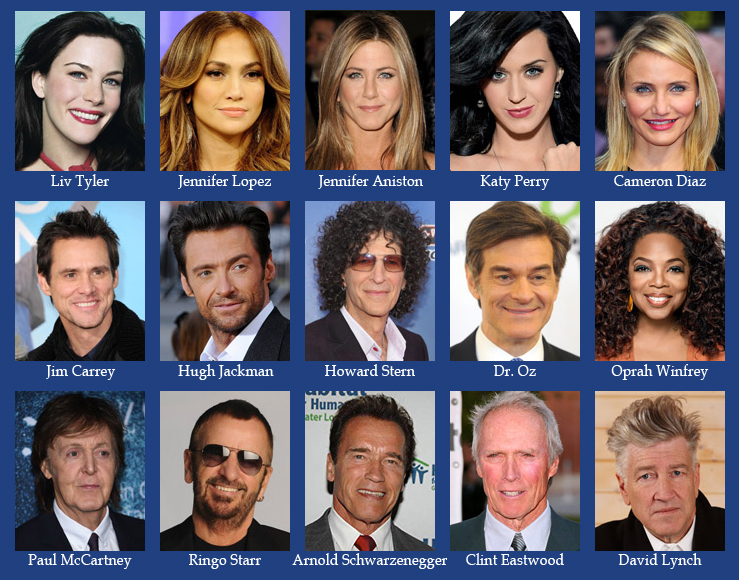
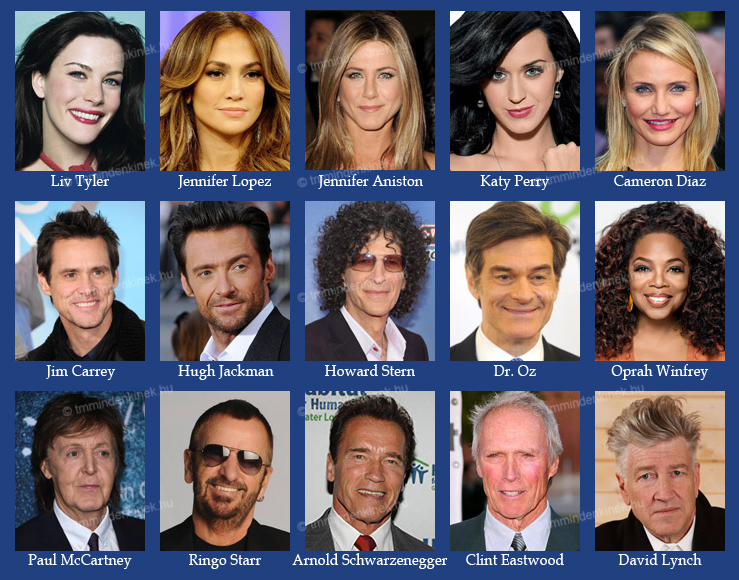
kereszthivatkozások (SEO miatt); 1x1 pixeles hider a képekre (ehhez lett írva a wrap_into_hider PHP segédfüggvény); hírességes és MRI-s kép lecserélve vízjelesre; Margarétás kép lecserélve a szebb nyakúra; CSS

diff --git a/css/style.less b/css/style.less
@@ -443,6 +443,21 @@ ul {
     }
 }
 
+.hider {
+    background-image: url(../images/hider.png);
+    background-repeat: repeat;
+
+    position: absolute;
+    top: 0;
+    left: 0;
+    width: 100%;
+    height: 100%;
+
+    &-container {
+        position: relative;
+    }
+}
+
 figure {
     text-align: center;
 
@@ -492,11 +507,21 @@ figure {
     }
 
     &.famous-people {
+        cursor: default;
+
         margin-bottom: 20px !important;
 
         & img {
+            border: none;
+
             max-height: none;
             width: 80%;
+
+            &:hover {
+                border: none;
+                box-shadow: none;
+                cursor: default;
+            }
         }
     }
 

diff --git a/css/style.css b/css/style.css
@@ -331,6 +331,18 @@ ul.tm-contact li:not(.menu) {
   background-size: 25px;
   padding-left: 35px;
 }
+.hider {
+  background-image: url(../images/hider.png);
+  background-repeat: repeat;
+  position: absolute;
+  top: 0;
+  left: 0;
+  width: 100%;
+  height: 100%;
+}
+.hider-container {
+  position: relative;
+}
 figure {
   text-align: center;
 }
@@ -364,11 +376,18 @@ figure figcaption {
   width: 100%;
 }
 figure.famous-people {
+  cursor: default;
   margin-bottom: 20px !important;
 }
 figure.famous-people img {
+  border: none;
   max-height: none;
   width: 80%;
+}
+figure.famous-people img:hover {
+  border: none;
+  box-shadow: none;
+  cursor: default;
 }
 figure a {
   display: block;

diff --git a/helpers.php b/helpers.php
@@ -75,59 +75,82 @@
         echo $wrap_in_h2 ? '<h2>'.$title.'</h2>' : $title;
     }
 
-    // $orientation : "portrait" | "landscape"
-    // $float       : "none" | "left" | "right"
-    function insert_raw_image($src, $orientation, $float, $alt, $title, $classes = "", $styles = "") {
-        $class = $classes == '' ? '' : ' '.$classes;
-        $style = $styles == '' ? '' : ' style="'.$styles.'"';
+    function wrap_into_hider($content) {
+        $result = '';
 
-        echo '<figure class="'.$orientation.' '.$float.' clearfix'.$class.'"'.$style.'>';
-            echo '<img src="'.$src.'" class="tm-thumbnail '.$orientation.'" alt="'.$alt.'" title="'.$title.'">';
-        echo '</figure>';
+        $result .= '<div class="hider-container">';
+            $result .= '<div class="hider"></div>';
+            $result .= $content;
+        $result .= '</div>';
+
+        return $result;
     }
 
     // $orientation : "portrait" | "landscape"
     // $float       : "none" | "left" | "right"
-    function insert_figure($src, $orientation, $float, $alt, $title, $figcaption, $classes = "", $styles = "") {
+    function insert_raw_image($src, $orientation, $float, $alt, $title, $classes = "", $styles = "", $useHider = false) {
         $class = $classes == '' ? '' : ' '.$classes;
         $style = $styles == '' ? '' : ' style="'.$styles.'"';
+        $result = '';
 
-        echo '<figure class="'.$orientation.' '.$float.' clearfix'.$class.'"'.$style.'>';
-            echo '<a href="'.$src.'" target="_blank">';
-                echo '<img src="'.$src.'" class="tm-thumbnail '.$orientation.'" alt="'.$alt.'" title="'.$title.'">';
-            echo '</a>';
-            echo '<figcaption>'.$figcaption.'</figcaption>';
-        echo '</figure>';
+        $result .= '<figure class="'.$orientation.' '.$float.' clearfix'.$class.'"'.$style.'>';
+            $image = '<img src="'.$src.'" class="tm-thumbnail '.$orientation.'" alt="'.$alt.'" title="'.$title.'">';
+            $result .= $useHider ? wrap_into_hider($image) : $image;
+        $result .= '</figure>';
+
+        echo $result;
+    }
+
+    // $orientation : "portrait" | "landscape"
+    // $float       : "none" | "left" | "right"
+    function insert_figure($src, $orientation, $float, $alt, $title, $figcaption, $classes = "", $styles = "", $useHider = false) {
+        $class = $classes == '' ? '' : ' '.$classes;
+        $style = $styles == '' ? '' : ' style="'.$styles.'"';
+        $result = '';
+
+        $result .= '<figure class="'.$orientation.' '.$float.' clearfix'.$class.'"'.$style.'>';
+            $result .= '<a href="'.$src.'" target="_blank">';
+                $image = '<img src="'.$src.'" class="tm-thumbnail '.$orientation.'" alt="'.$alt.'" title="'.$title.'">';
+                $result .= $useHider ? wrap_into_hider($image) : $image;
+            $result .= '</a>';
+            $result .= '<figcaption>'.$figcaption.'</figcaption>';
+        $result .= '</figure>';
+
+        echo $result;
     }
 
     function insert_video($url, $title = "", $closable = false, $tooltip = "Kattintson a gombra a videó betöltéséhez") {
-        if ($closable) {
-            echo '<div class="video-group">';
-                echo '<button class="video-button button" onclick="getVideo(\''.$url.'\', this)" title="'.$tooltip.'">';
-                    echo '<i class="material-icons">ondemand_video</i> '.$title;
-                echo '</button>';
+        $result = '';
 
-                echo '<div class="video-container">';
-                    echo '<div class="video-header">';
-                        echo '<div class="video-title">'.$title.'</div>';
-                        echo '<div class="video-close" onclick="closeVideo(this)">&times;</div>';
-                    echo '</div>';
-                    echo '<div class="video-content">';
-                        echo '<iframe class="video" width="560" height="315" src="" frameborder="0" allow="accelerometer; encrypted-media; gyroscope; picture-in-picture" allowfullscreen></iframe>';
-                    echo '</div>';
-                echo '</div>';
-            echo '</div>';
+        if ($closable) {
+            $result .= '<div class="video-group">';
+                $result .= '<button class="video-button button" onclick="getVideo(\''.$url.'\', this)" title="'.$tooltip.'">';
+                    $result .= '<i class="material-icons">ondemand_video</i> '.$title;
+                $result .= '</button>';
+
+                $result .= '<div class="video-container">';
+                    $result .= '<div class="video-header">';
+                        $result .= '<div class="video-title">'.$title.'</div>';
+                        $result .= '<div class="video-close" onclick="closeVideo(this)">&times;</div>';
+                    $result .= '</div>';
+                    $result .= '<div class="video-content">';
+                        $result .= '<iframe class="video" width="560" height="315" src="" frameborder="0" allow="accelerometer; encrypted-media; gyroscope; picture-in-picture" allowfullscreen></iframe>';
+                    $result .= '</div>';
+                $result .= '</div>';
+            $result .= '</div>';
         } else {
-            echo '<div class="video-container">';
-                echo '<div class="video-header">';
-                    echo '<div class="video-title">'.$title.'</div>';
-                echo '</div>';
-                echo '<div class="video-content visible">';
-                     echo '<iframe class="video" width="560" height="315" src="'.$url.'?rel=0"'.
+            $result .= '<div class="video-container">';
+                $result .= '<div class="video-header">';
+                    $result .= '<div class="video-title">'.$title.'</div>';
+                $result .= '</div>';
+                $result .= '<div class="video-content visible">';
+                     $result .= '<iframe class="video" width="560" height="315" src="'.$url.'?rel=0"'.
                           'frameborder="0" allow="accelerometer; encrypted-media; gyroscope; picture-in-picture" allowfullscreen></iframe>';
-                echo '</div>';
-            echo '</div>';
+                $result .= '</div>';
+            $result .= '</div>';
         }
+
+        echo $result;
     }
 
     function get_email_from_template($template_file_path, $data) {

diff --git a/content/hatasok.php b/content/hatasok.php
@@ -9,7 +9,9 @@
         "MRI felvétel (új lapon nyílik meg)", // title
         "Egy normál és egy feszült idegállapotú ember agyának MRI felvétele", // figcaption
         "", // classes
-        "max-width: 300px"); // styles
+        "max-width: 300px", // styles
+        false // use hider?
+    );
 ?>
 
 <p class="clearfix">
@@ -17,8 +19,10 @@
     Ha az ember homloklebenyében úgynevezett funkcionális lyukak alakulnak ki (lásd MRI felvétel),
     akkor az megakadályozza abban, hogy erkölcsileg, morálisan megfelelő döntést tudjon hozni.
     A funkcionális lyukak kialakulásának oka a nem megfelelő idejű és minőségű alvás, illetve a stressz.
-    A nem megfelelő minőségű alvás oka a stressz. Így ha eleget alszunk, és stresszmentes életet élünk, az agyunk megfelelően fog működni.
-    A TM<sup>&reg;</sup> egy olyan egyszerű, természetes, erőfeszítésmentes stresszoldó mentális technika,
+    A nem megfelelő minőségű alvás oka szintén a stressz.
+    Így ha eleget alszunk, és stresszmentes életet élünk, az agyunk megfelelően fog működni.
+    A <a href="index.php?p=mi-a-tm" class="in-text" title="Ugrás a Mi a TM? aloldalra">TM</a><sup class="orange">&reg;</sup>
+    egy olyan egyszerű, természetes, erőfeszítésmentes stresszoldó mentális technika,
     mely az agykoherenciát növeli, ezáltal az idegrendszerünket normalizálja (melynek központja az agy),
     így segíti elő a megfelelő döntések meghozatalát.
 </p>
@@ -81,7 +85,8 @@
     <li>
         <b>a szakmai életben:</b>
         <p>
-            erősebb önmegvalósítás elérése; helyes döntéshozatal;
+            erősebb <a href="index.php?p=onmegvalositas" class="in-text" title="Ugrás az Önmegvalósítás aloldalra">önmegvalósítás</a> elérése;
+            helyes döntéshozatal;
             nagyobb elégedettség a karrierrel; jobb munkateljesítmény;
             gyorsabb problémamegoldó képesség; a munka növekvő élvezete;
             hatékony vezetői képesség kifejlődése; kevesebb cselekvés, több eredmény;

diff --git a/content/ajanlasok.php b/content/ajanlasok.php
@@ -7,7 +7,8 @@
     a sérülések és az intenzív élmények okozta terhekkel. Egész életén át folytatott kutatásai nyomán
     arra a következtetésre jutott, hogy a stressz minden betegség kifejlődésében szerepet játszik.
     Ha valaki nem képes megbirkózni a stresszekkel, az alkalmazkodási betegségekhez vezethet,
-    mint amilyenek a fekélyek, a magas vérnyomás és számos egyéb probléma, amelyet a stressz okoz vagy súlyosbít.
+    mint amilyenek a fekélyek, a magas vérnyomás és számos egyéb probléma, amelyet a stressz okoz vagy súlyosbít
+    (bővebben az <a href="index.php?p=hatasok" class="in-text" title="Ugrás az Igazolt hatások aloldalra">Igazolt hatások</a> menüpont alatt).
 </p>
 
 <p>
@@ -75,21 +76,22 @@
 <p class="clearfix">
 1955-ben Dr. Veér András, a Népjóléti Minisztérium Mentálhygiéne miniszteri biztosa,
 aki az <b>Országos Pszichiátriai és Neurológiai Intézet Főigazgató Főorvosa</b> is,
-írt egy ajánló levelet, melyben a Transzcendentális Meditációt ajánlja.
+írt egy ajánló levelet, melyben a <a href="index.php?p=mi-a-tm" class="in-text" title="Ugrás a Mi a TM? aloldalra">Transzcendentális Meditációt</a> ajánlja.
 </p>
 
 <h3>Híres TM-esek</h3>
 
 <?php
-    insert_figure(
+    insert_raw_image(
         "images/hiressegek.jpg", // src
         "portrait", // orientation
         "none", // float
         "Híres TM-esek", // alt
         "Híres TM-esek (új lapon nyílik meg)", // title
-        "", // figcaption
         "famous-people", // classes
-        "max-width: none"); // inline styles
+        "max-width: none", // inline styles
+        true // use hider?
+    );
 ?>
 
 <?php

diff --git a/content/mi-a-tm.php b/content/mi-a-tm.php
@@ -15,13 +15,14 @@
     ami kiterjedt tudatossághoz vezet.
     Az idegrendszer és a test egyedülállóan mély pihenése feloldja a mélyen gyökerező stresszeket,
     így az idegrendszer és az egész fiziológia működése is normalizálódik.
+    (Lásd <a href="index.php?p=ajanlasok" class="in-text" title="Ugrás az Ajánlások aloldalra">Dr. Selye János ajánlása</a>.)
 </p>
 
 <p>
     A változásokat, amelyek az elme tudatosságának kiterjedése és a test mély pihenése által jönnek létre
     az ember életében és környezetében, beható tudományos vizsgálatoknak vetették alá az elmúlt több mint 30 évben.
     Napjainkig kb. 600 ilyen tudományos kutatás készült a világ 30 országának kb. 250 tudományos intézetében
-    (bővebben lásd az <a href="index.php?p=hatasok" class="in-text" title="Ugrás az Igazolt hatások aloldalra">Igazolt hatások</a> menüpont alatt).
+    (bővebben az <a href="index.php?p=hatasok" class="in-text" title="Ugrás az Igazolt hatások aloldalra">Igazolt hatások</a> menüpont alatt).
 </p>
 
 <p>
@@ -29,6 +30,8 @@
     A TM<sup>&reg;</sup> nem hit, nem vallás és nem filozófia, hanem egy egyszerű, mentális technika,
     amelyet bárki gyakorolhat, függetlenül nemétől, életkorától, iskolai végzettségétől,
     életmódjától, hitétől és vallásától.
+    A tanfolyamról a <a href="index.php?p=kapcsolat" class="in-text" title="Ugrás a Kapcsolat aloldalra">Kapcsolat</a>
+    oldalon talál bővebb információt.
 </p>
 
 <h3>Mi történik a TM<sup>&reg;</sup> alatt?</h3>

diff --git a/content/kapcsolat.php b/content/kapcsolat.php
@@ -13,13 +13,17 @@
 </p>
 
 <p>
-    A TM tanfolyam elvégzése után azt önállóan tudjuk gyakorolni,
-    de a TM tanártól bármikor kérhetünk segítséget, útmutatást.
+    A TM<sup>&reg;</sup> tanfolyam elvégzése után azt önállóan tudjuk gyakorolni,
+    de a TM<sup>&reg;</sup> tanártól bármikor kérhetünk segítséget, útmutatást.
 </p>
 
 <p>
     A bevezető és előkészítő előadás <b>díjtalan</b>, melyre elérhetőségeimen jelentkezhet.
     Ezen való részvétel semmilyen kötelezettséggel nem jár.
+    Ezen az előadáson felvilágosítást kaphat arról, hogy
+    <a href="index.php?p=mi-a-tm" class="in-text" title="Ugrás a Mi a TM? aloldalra">mi a TM</a><sup class="orange">&reg;</sup>,
+    hogyan lehet elsajátítani,
+    és milyen <a href="index.php?p=hatasok" class="in-text" title="Ugrás az Igazolt hatások aloldalra">igazolt hatásai</a> vannak.
 </p>
 
 <blockquote>
@@ -30,7 +34,10 @@
             "right", // float
             "Mátyás Margaréta fotó", // alt
             "Mátyás Margaréta", // title
-            "orange-border"); // classes
+            "orange-border", // classes
+            "", // styles
+            true // use hider?
+        );
     ?>
 
     <p>
